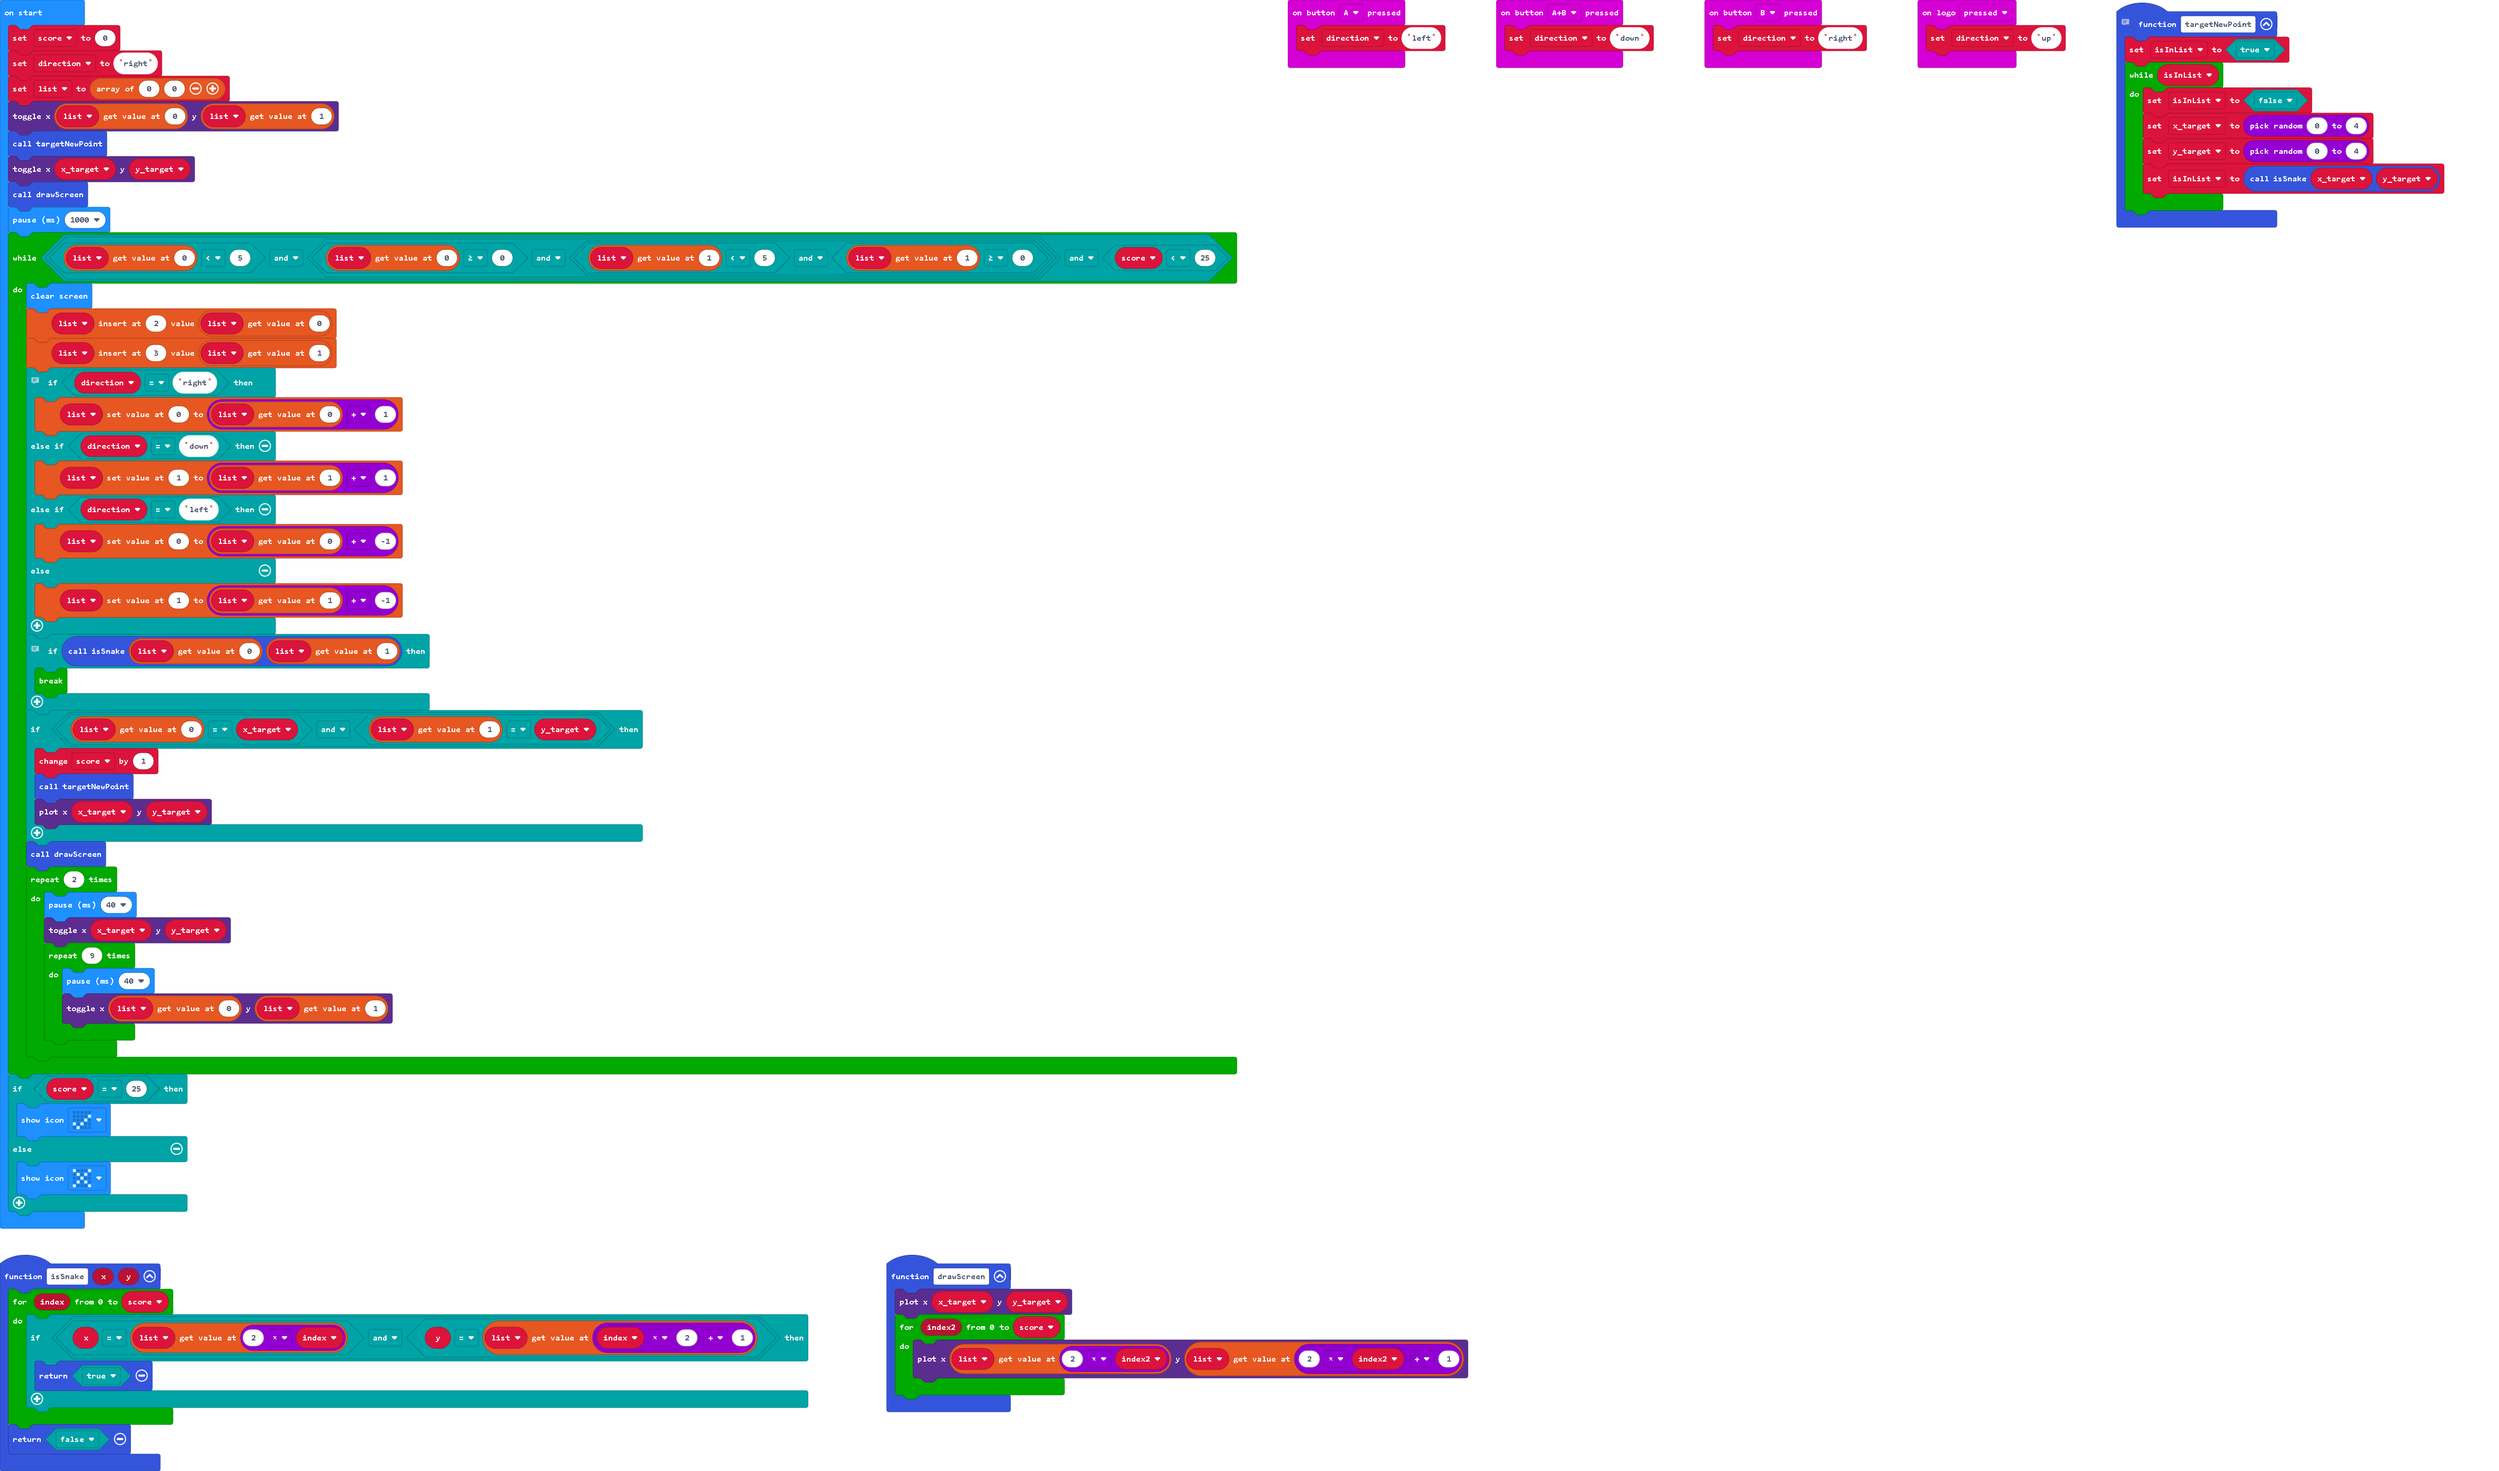
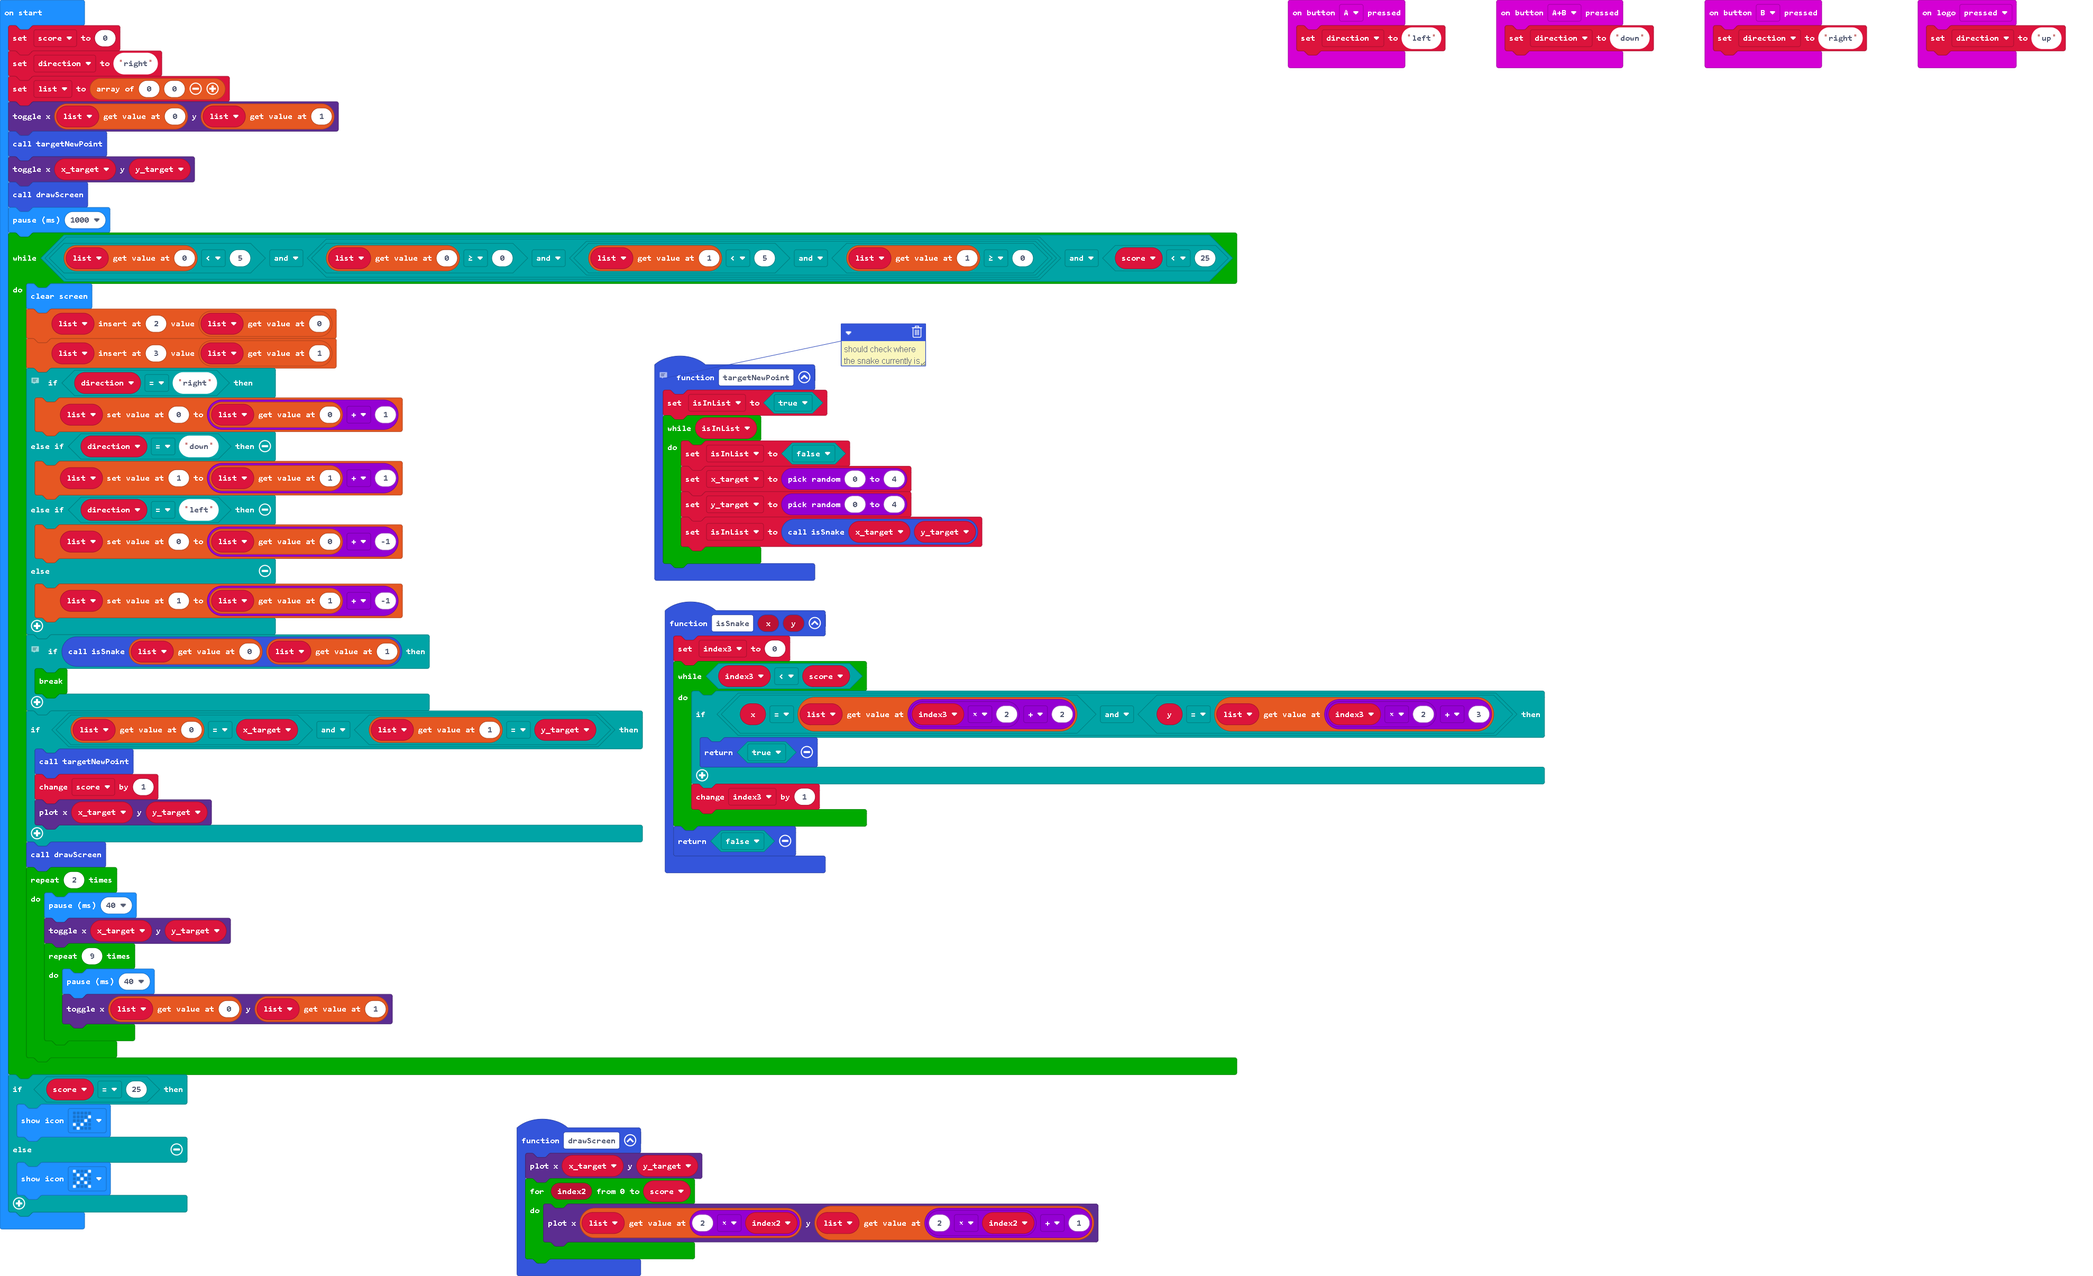
think i fixed isSnake for good

Changed region(s): [[0.0, 0.0, 0.7458, 1.0], [0.4972, 0.0, 0.9944, 0.1554]]

diff --git a/main.ts b/main.ts
@@ -18,10 +18,12 @@ input.onButtonPressed(Button.B, function () {
     direction = "right"
 })
 function isSnake (x: number, y: number) {
-    for (let index = 0; index <= score; index++) {
-        if (x == list[2 * index] && y == list[index * 2 + 1]) {
+    index3 = 0
+    while (index3 < score) {
+        if (x == list[index3 * 2 + 2] && y == list[index3 * 2 + 3]) {
             return true
         }
+        index3 += 1
     }
     return false
 }
@@ -34,6 +36,7 @@ function drawScreen () {
         led.plot(list[2 * index2], list[2 * index2 + 1])
     }
 }
+let index3 = 0
 let isInList = false
 let y_target = 0
 let x_target = 0
@@ -67,8 +70,8 @@ while (list[0] < 5 && (list[0] >= 0 && (list[1] < 5 && list[1] >= 0)) && score <
         break;
     }
     if (list[0] == x_target && list[1] == y_target) {
-        score += 1
         targetNewPoint()
+        score += 1
         led.plot(x_target, y_target)
     }
     drawScreen()
